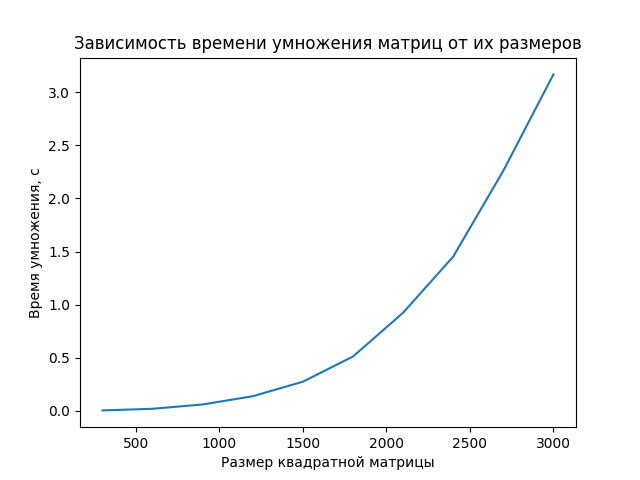
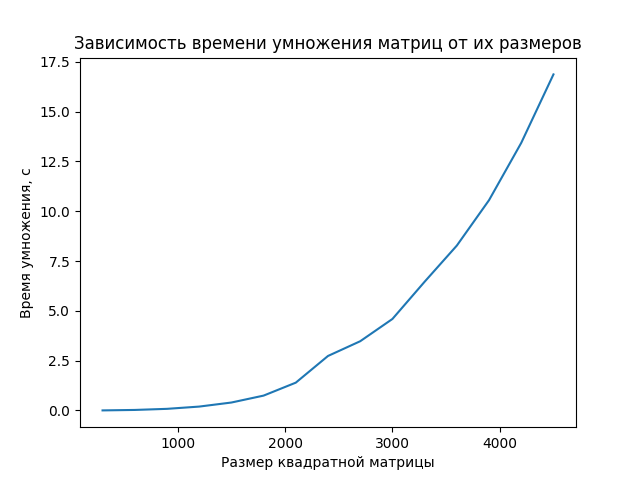
Updated experiment data due to 1st programm change refactor: files Report.md updated experiment data

diff --git a/file_handler.py b/file_handler.py
@@ -39,7 +39,7 @@ class FileHandler:
                     FileHandler.write_matrix(m2, f)
                 break
             except (OSError, IOError) as e:
-                print(f"Error file friting to file {attempt}")
+                print(f"Error while writing to file {attempt}")
                 if attempt == attempts - 1:
                     raise
                 time.sleep(delay)

diff --git a/main.py b/main.py
@@ -7,10 +7,10 @@ from numpy import array, allclose
 
 from file_handler import FileHandler
 
-EXPEREMENT_COUNT = 1
+EXPEREMENT_COUNT = 5
 
 times = []
-sizes = [i*300 for i in range(1, 11)]
+sizes = [i*300 for i in range(1, 16)]
 
 for matr_size in sizes:
     time = 0

diff --git a/Report.md b/Report.md
@@ -5,7 +5,7 @@
 
 ## Изменения
 В `MatrixMultiplicator` умножение матриц теперь распараллелено по внешнему циклу директивой `omp parallel for schedule(static)`.
-Таким образом, потоки будут выполнять вычисления для разных строк одновременно. Выбрано именно `schedule(static)`, т.к. итерации занимают примерно одинаковое время. Также оптимизирован `CMake`. Использовалось 12 потоков, т.к. программа выполнялась на 12ядерном процессоре.
+Таким образом, потоки будут выполнять вычисления для разных строк одновременно. Выбрано именно `schedule(static)`, т.к. итерации занимают примерно одинаковое время. Также оптимизирован `CMake`. Использовалось 12 потоков, т.к. программа выполнялась на 12-ядерном процессоре.
 
 ## Результат
 График, полученный ранее для последовательной программы:
@@ -21,4 +21,4 @@
 ![График](files/result.png)
 
 ## Вывод
-Операция умножения матриц имеет сложность *O(n^3)*, по графику все еще наблюдается нечто похожее, однако при сравнении с ранее полученными результатами можно сделать вывод: для распараллеленой программы этой оценкой сложности все же является *O(αn^3)*, где  α - некий коэфиициент, при чем  α<<1. Скорость вычислений возросла в более чем **150 раз**. 
+Операция умножения матриц имеет сложность *O(n^3)*, по графику все еще наблюдается нечто похожее, однако при сравнении с ранее полученными результатами можно сделать вывод: для распараллеленой программы этой оценкой сложности все же является *O(αn^3)*, где  α - некий коэфиициент, при чем  α<1. Скорость вычислений возросла приблизительно в **10 раз**. 
